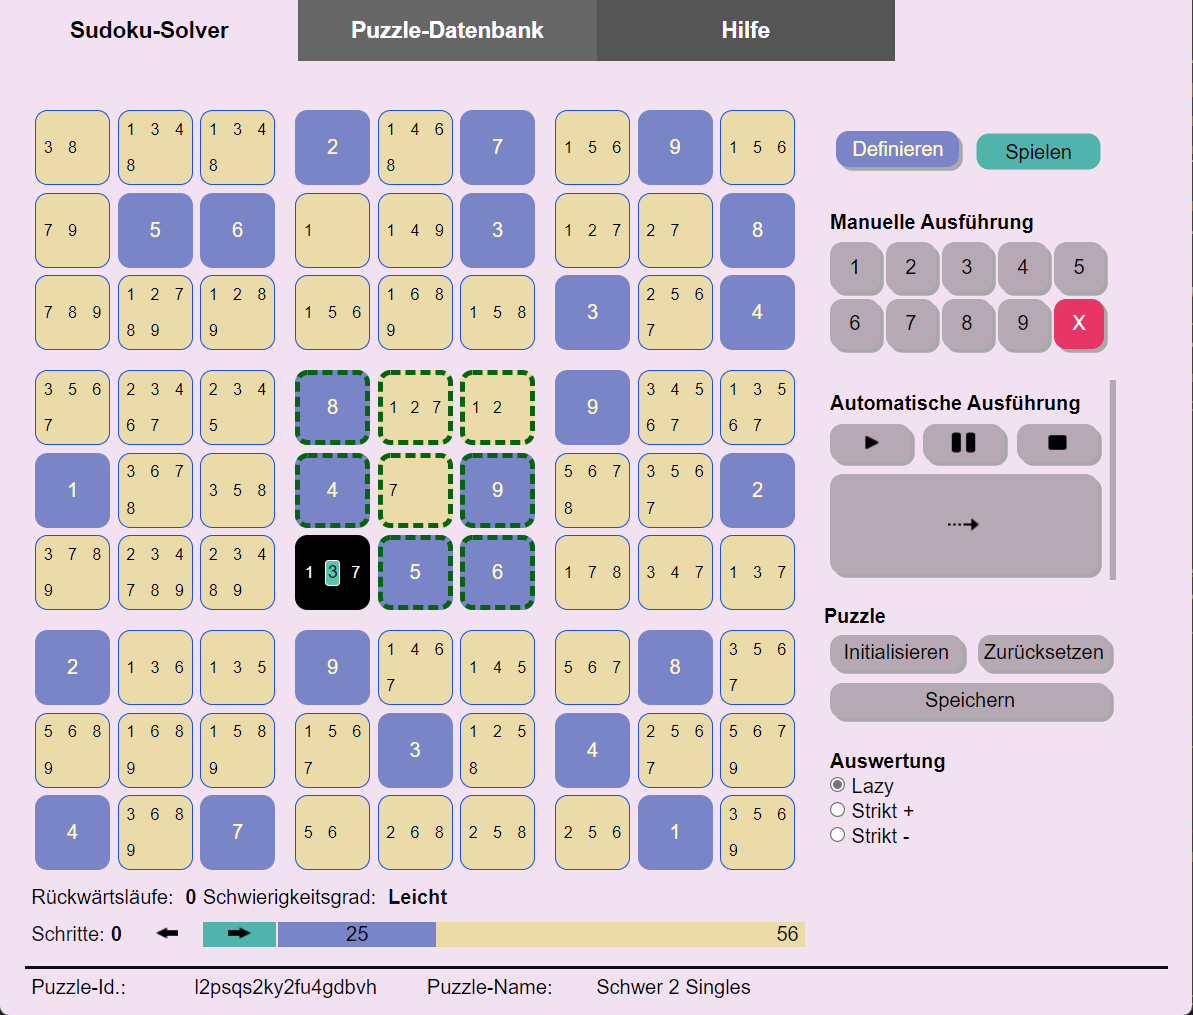
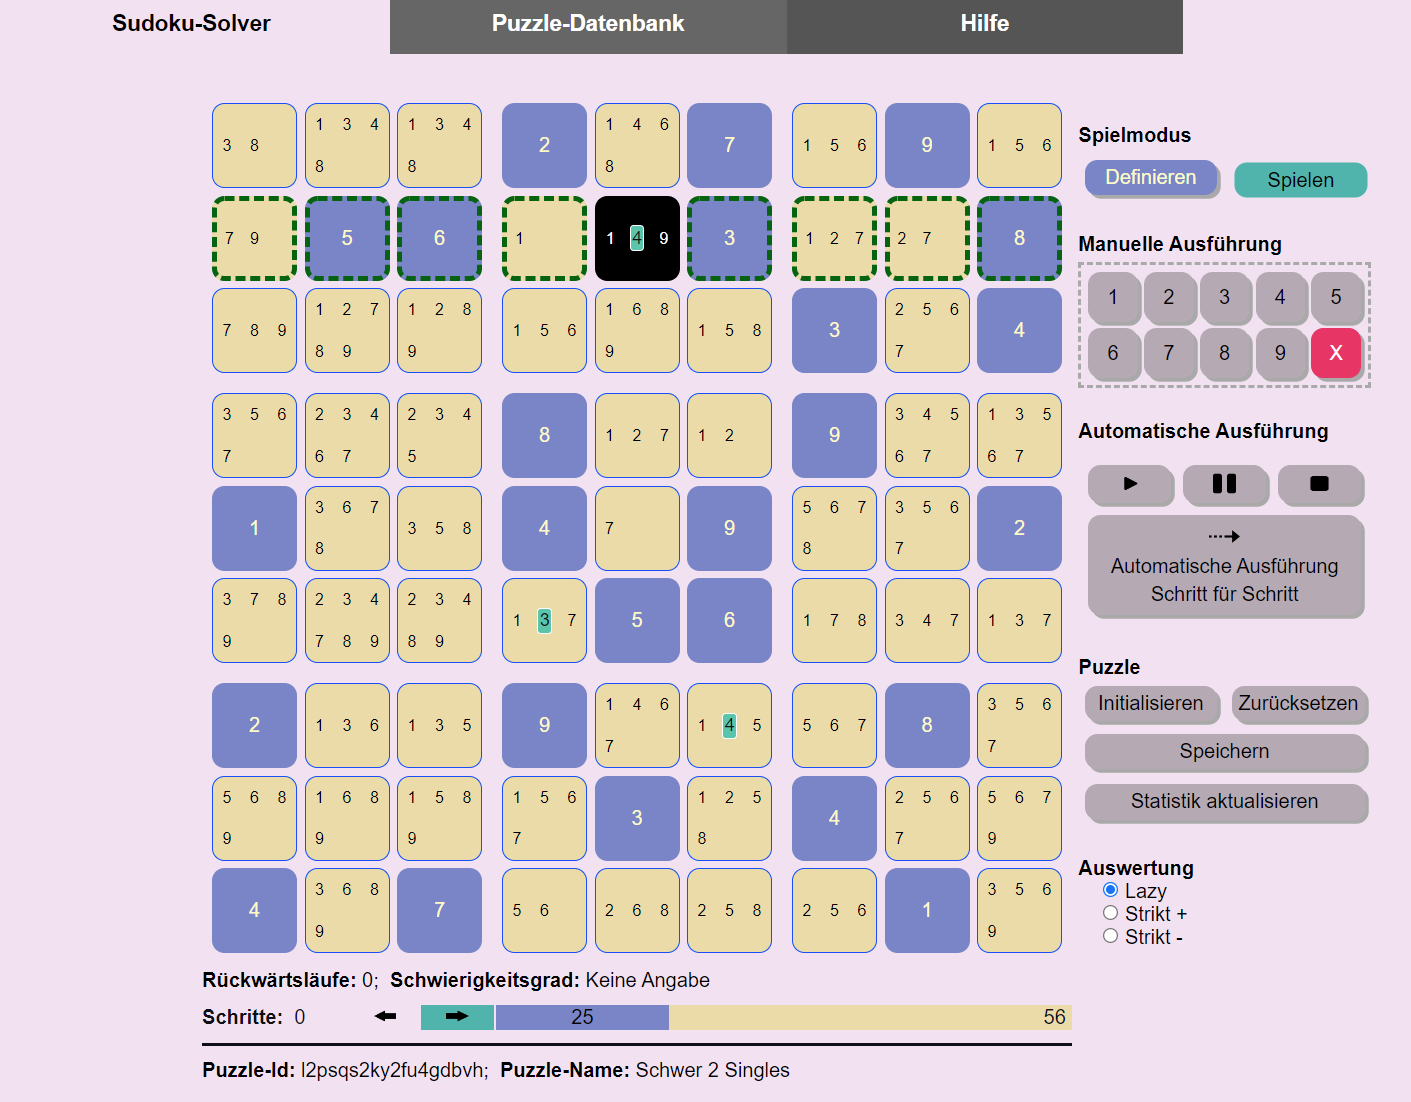
Hilfe aktualisiert

diff --git a/help.md b/help.md
@@ -4,11 +4,11 @@ layout: default
 
 # Sudoku-App
 
-Wer kennt das nicht? Beim Kaffeetrinken ein Sudoku lösen. Nach jahrelanger Erfahrung ist man spürbar besser geworden. Und dann kommt ein Sudoku, manchmal auch nur als mittel klassifiziert, und man findet partout nicht die nächste Zelle mit einer eindeutigen Nummernbelegung. Anstatt den Kaffeetisch frustriert zu verlassen, kann man diese Sudoku-App und den darin enthaltenen Solver nutzen. Er löst jedes Sudoku in wenigen Minuten. Das tun andere Sudoku-Solver auch.
+Wer kennt das nicht? Beim Kaffeetrinken ein Sudoku lösen. Nach jahrelanger Erfahrung ist man spürbar besser geworden. Und dann kommt ein Sudoku, manchmal auch nur als leicht oder mittel klassifiziert, und man findet partout nicht die nächste Zelle mit einer eindeutigen Nummernbelegung. Anstatt den Kaffeetisch frustriert zu verlassen, kann man diese Sudoku-App und den darin enthaltenen Solver nutzen. Er löst jedes Sudoku in wenigen Minuten.
 
-Die Besonderheit dieses Solvers besteht darin, dass man ihm dabei zuschauen kann. Schritt für Schritt kann man beobachten und verstehen, wie der Solver zur Lösung des Sudokus gelangt. Alternativ kann man sich auch einfach nur einen nächsten möglichen Schritt zeigen lassen und dann von Hand weitermachen.
+Das tun andere Sudoku-Solver auch. Die Besonderheit dieses Solvers besteht darin, dass man ihm dabei zuschauen kann. Schritt für Schritt kann man beobachten und verstehen, wie der Solver zur Lösung des Sudokus gelangt. Alternativ kann man sich auch einfach nur einen nächsten möglichen Schritt zeigen lassen und dann von Hand weitermachen.
 
-Zusammen mit der Lösung bestimmt der Solver den tatsächlichen Schwierigkeitsgrad des Sudokus. Sehr schwere Sudokus, Definition siehe unten, sind manuell kaum zu lösen. Sie sollten daher kein Grund für Frust sein. Konsequenz: Mit dieser Sudoku-App macht das Sudokulösen Spaß, auch wenn mal ein schweres Puzzle zu lösen ist.
+Zusammen mit der Lösung bestimmt der Solver den tatsächlichen Schwierigkeitsgrad des Sudokus. Sehr schwere Sudokus, Definition siehe unten, sind manuell kaum zu lösen. Sie sollten daher kein Grund für Frust sein. Konsequenz: Mit dieser Sudoku-App macht das Sudokulösen Spaß, auch wenn mal ein schweres Puzzle dabei ist.
 
 ## App-Überblick
 
@@ -77,13 +77,14 @@ Die manuelle Ausführung wird in jedem Fall in der Definitionsphase genutzt. In 
 |![Initialisieren](./images/initButton.png)|Die Taste **Initialisieren**. Durch das Drücken dieser Taste wird der Solver wird initialisiert. Danach ist die Sudoku-Tabelle leer.|
 |![Reset](./images/resetButton.png)|Die Taste **Zurücksetzen**. Mittels dieser Taste wird der Solver zurückgesetzt auf die Aufgabenstellung. D.h. alle in der Spielphase gesetzten Zellen werden gelöscht. Die Zellen der Definitionsphase bleiben erhalten.|
 |![Speichern](./images/storeButton.png)|Mittels dieser Taste kann das aktuelle Puzzle in der Datenbank gespeichert werden.|
+|![Statistik aktualisieren](./images/statistik.png)|Mittels dieser Taste kann für ein aus der Datenbank geladenes Puzlle das neue Ausführungsergebnis gespeichert werden.|
 
 ## Theoretische Grundlagen des Solvers
 
 ### Notwendige Nummern
 
 ![Lazy notwendig](./images/lazynotwendig.png)
-Eine zulässige Nummer in einer Zelle ist notwendig, wenn die Nummer in ihrer Gruppe, Zeile oder Spalte einzig ist. D.h. sie kommt in der betreffenden Gruppe, Zeile oder Spalte nur genau einmal vor. Im Bild ist die grüne 3 notwendig, weil sie in ihrer Gruppe kein weiteres mal zulässig ist. Im Lazy-Auswertungsmodus zeigt der Solver die die Notwendigkeit verursachende Gruppe, Spalte oder Zeile an.
+Eine zulässige Nummer in einer Zelle ist notwendig, wenn die Nummer in ihrer Gruppe, Zeile oder Spalte einzig ist. D.h. sie kommt in der betreffenden Gruppe, Zeile oder Spalte nur genau einmal vor. Im Bild ist die grüne 4 notwendig, weil sie in ihrer Zeile kein weiteres mal zulässig ist. Im Lazy-Auswertungsmodus zeigt der Solver die die Notwendigkeit verursachende Gruppe, Spalte oder Zeile an, wenn man die Zelle mit der notwendigen Nummer selektiert.
 
 ### Indirekt unzulässige Nummern
 
@@ -93,7 +94,7 @@ Indirekt unzulässige Nummern spielen eine wichtige Rolle bei der Bestimmung der
 
 1. **Indirekt unzulässig wegen einer Single-Nummer:** Eine Nummer ist indirekt unzulässig wegen einer Single-Nummer, wenn sie in ihrer Spalte, Reihe oder Gruppe ein zweites mal auftritt.
 
-1. **Indirekt unzulässig wegen Pairing:** Eine Nummer ist indirekt unzulässig, wenn es in einer Gruppe, Zeile oder Spalte Paare gibt und Nummern dieser Paare zusätzlich in weiteren Zellen dieser Gruppe, Spalte oder Zeile auftauchen. Im nachfolgenden Beispiel ist das 4-6-Paar ein kritisches Paar. Das 4-6-Paar macht in seiner Gruppe alle 4 und 6 indirekt unzulässig. Der Grund: Das Paar bedeutet, dass die 4 und die 6 auf jeden Fall in einer der beiden Zellen des Paares gesetzt werden muss. Aktuell steht nur noch nicht fest, ob die 6 oder die 4 oben ist. Fest steht aber jetzt schon, dass in den übrigen Zellen der Gruppe keine 4 oder 6 mehr vorkommen können. Die 4 und 6 sind hier indirekt unzulässig. Diese Gruppendarstellung mit den gestrichelten Kanten zeigt der Solver nur im Lazy-Auswertungsmodus. Der Solver findet damit mit der 5 eine Zelle mit eindeutiger Nummer. Nur die 5 kann noch gesetzt werden.
+1. **Indirekt unzulässig wegen Pairing:** Eine Nummer ist indirekt unzulässig, wenn es in einer Gruppe, Zeile oder Spalte Paare gibt und Nummern dieser Paare zusätzlich in weiteren Zellen dieser Gruppe, Spalte oder Zeile auftauchen. Im nachfolgenden Beispiel ist das 4-6-Paar ein kritisches Paar. Das 4-6-Paar macht in seiner Gruppe alle 4 und 6 indirekt unzulässig. Der Grund: Das Paar bedeutet, dass die 4 und die 6 auf jeden Fall in einer der beiden Zellen des Paares gesetzt werden muss. Aktuell steht nur noch nicht fest, ob die 6 oder die 4 oben ist. Fest steht aber jetzt schon, dass in den übrigen Zellen der Gruppe keine 4 oder 6 mehr vorkommen können. Die 4 und 6 sind hier indirekt unzulässig. Diese Gruppendarstellung mit den gestrichelten Kanten zeigt der Solver nur im Lazy-Auswertungsmodus, wenn man eine Zelle mit indirekt unzulässigen Nummern selektiert. Der Solver findet die Zelle mit der 5 als eindeutiger Nummer. Nur die 5 kann noch gesetzt werden.
 ![Indirekt unzulässig](./images/indirektWegenPairing.png)
 
 ### Auswertungsmethoden
@@ -110,7 +111,7 @@ Die strikte Auswertung kann in zwei Varianten angezeigt werden:
 
 1. **Strikt -** : Die errechneten indirekten unzulässigen Nummern werden ausgeblendet. Das nachfolgende Bild zeigt die vorige Matrix im Strikt-Minus-Modus. ![Strikt Minus](./images/striktminus.png)
 
-In der Strikt-Minus-Matrix dieses Beispiels besitzen alle Zellen nur noch genau eine zulässige Nummer. Alle Nummern sind Singles. Mit anderen Worten: wir sehen hier die Lösung des Sudokus. Der Solver präsentiert hier eine Lösung ohne Backtracking. Die meisten leichten und mittleren Sudokus in den Zeitschriften besitzen diese Eigenschaft der kalkulierten Lösungsfindung.
+In der Strikt-Minus-Matrix dieses Beispiels besitzen alle Zellen nur noch genau eine zulässige Nummer. Alle Nummern sind Singles. Mit anderen Worten: wir sehen hier die Lösung des Sudokus. Der Solver präsentiert hier eine Lösung ohne Backtracking. Die meisten leichten und mittleren Sudokus in den Zeitschriften können ohne Backtracking gelöst werden.
 
 ## Widerspruchsvolle Sudokus
 
@@ -134,7 +135,7 @@ Widerspruchsvolle Zellen hatten wir oben schon kennengelernt. Es sind dies Zelle
 Widerspruch - Single mehrfach:
 <img src="./images/groupconflict.png" width="200px" height="200px"/>
 
-So wie es widerspruchsvolle Zellen geben kann - erkennbar an ihrem roten Hintergrund - so kann es auch widerspruchsvolle Gruppen geben. Eine Gruppe ist widerspruchsvoll, wenn eine der folgenden Bedingungen vorliegt:
+So wie es widerspruchsvolle Zellen geben kann - erkennbar an ihrem roten Hintergrund - kann es auch widerspruchsvolle Gruppen geben. Eine Gruppe ist widerspruchsvoll, wenn eine der folgenden Bedingungen vorliegt:
 
 1. **Widerspruch - Single mehrfach:** Eine Nummer soll gleichzeitig in verschiedenen Zellen der Gruppe gesetzt werden wie die 3 im Beispiel.
 1. **Widerspruch - Pairing:** Wegen des Paares {2 9} im nachfolgenden Beispiel ist die einzelne 2 in der Gruppe widersprüchlich. Die 2 muss in einer der beiden Paarzellen gesetzt werden. Wenn sie zusätzlich noch einmal einzeln gesetzt würde, würde sie mehrfach erscheinen, ein Widerspruch. Im zweiten Beispiel kommt kommt das Paar {1 9} dreimal vor. Ebenfalls ein Widerspruch.
@@ -177,7 +178,7 @@ Der Solver zeigt die Anzahl der zurückgelegten Schritte an. Jedes Setzen einer 
 Der Solver sucht gemäß der folgenden Priorität die nächste offene Zelle und die zu setzende Nummer:
 
 1. **Zelle mit notwendiger Nummer:** Der Solver wählt in der Matrix zunächst eine offene Zelle, die in der Menge ihrer zulässigen Nummern eine notwendige Nummer hat. Diese notwendige Nummer wird dann in der Zelle gesetzt.
-1. **Zelle mit direkter Single**: Wenn es keine Zelle mit notwendiger Nummer mehr gibt, wählt der Solver eine Zelle mit nur einer zulässigen Nummer. Er setzt diese Nummer.
+1. **Zelle mit direkter Single**: Wenn es keine Zelle mit notwendiger Nummer mehr gibt, wählt der Solver eine Zelle mit nur genau einer zulässigen Nummer. Er setzt diese Nummer.
 1. **Zelle mit indirekter Single**: Wenn es keine Zelle mit notwendiger Nummer oder mit direkter Single mehr gibt wählt der Solver eine Zelle mit indirekter Single.
 1. **Zelle mit minimaler Optionenmenge**. Sind keine Zellen mit notwendigen Nummern oder Singles mehr verfügbar, wählt der Solver eine Zelle mit minimaler Anzahl von zulässigen Nummern. Die sogenannten Optionen der Zelle. Meist besteht die minimale Optionenmenge aus zwei Optionen. Ist aber nicht eindeutig, d.h. es gibt in der Regel mehrere Zellen mit zwei Optionen. In dieser Menge wählt der Solver zufällig eine Zelle und setzt eine der beiden Optionennummern. Im Laufe der weiteren Suche kann sich herausstellen, dass diese Nummer keine Lösung des Sudokus erlaubt. Der Back-Tracking-Prozess kehrt im weiteren Verlauf zu dieser Zelle zurück und versucht dann mit der Wahl einer anderen Nummer aus der Optionenmenge die Lösung zu finden.
 
